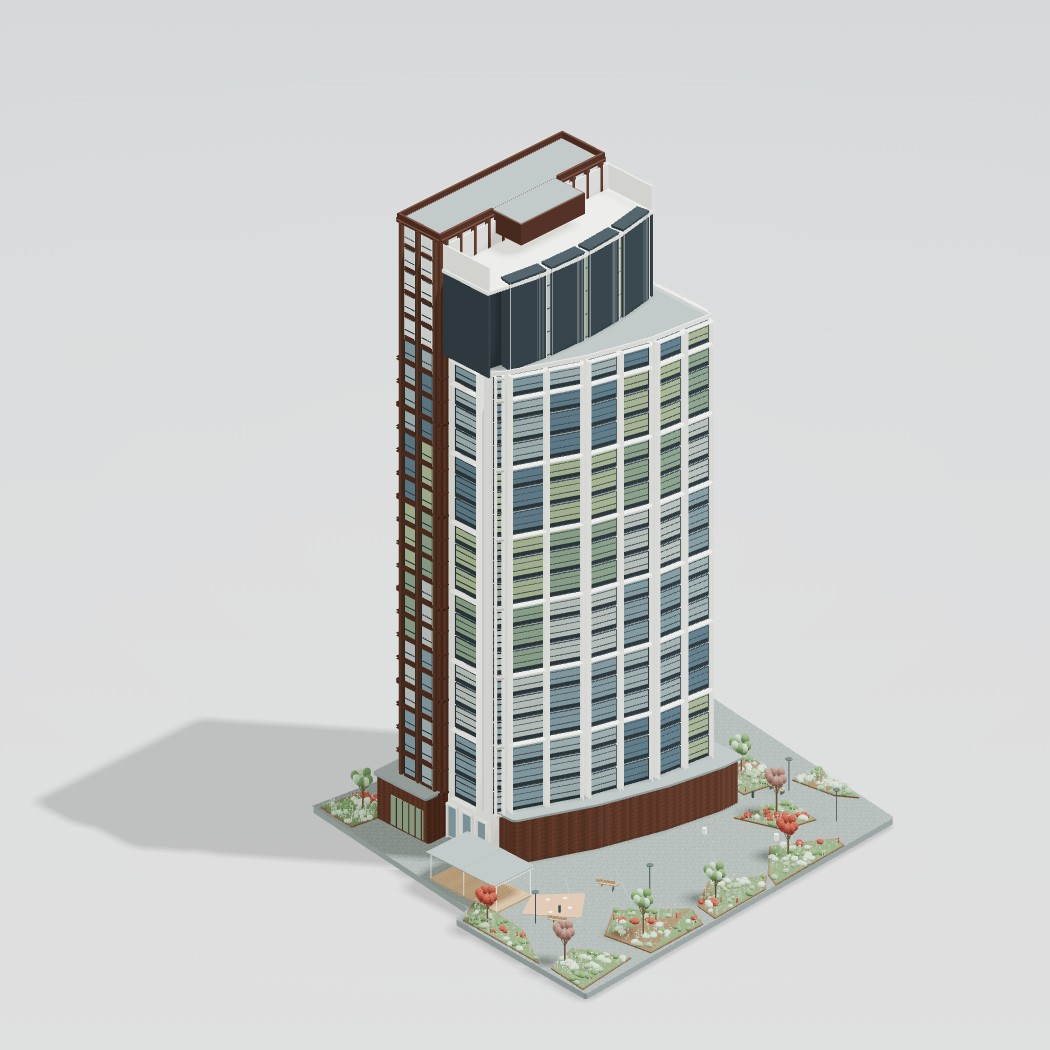
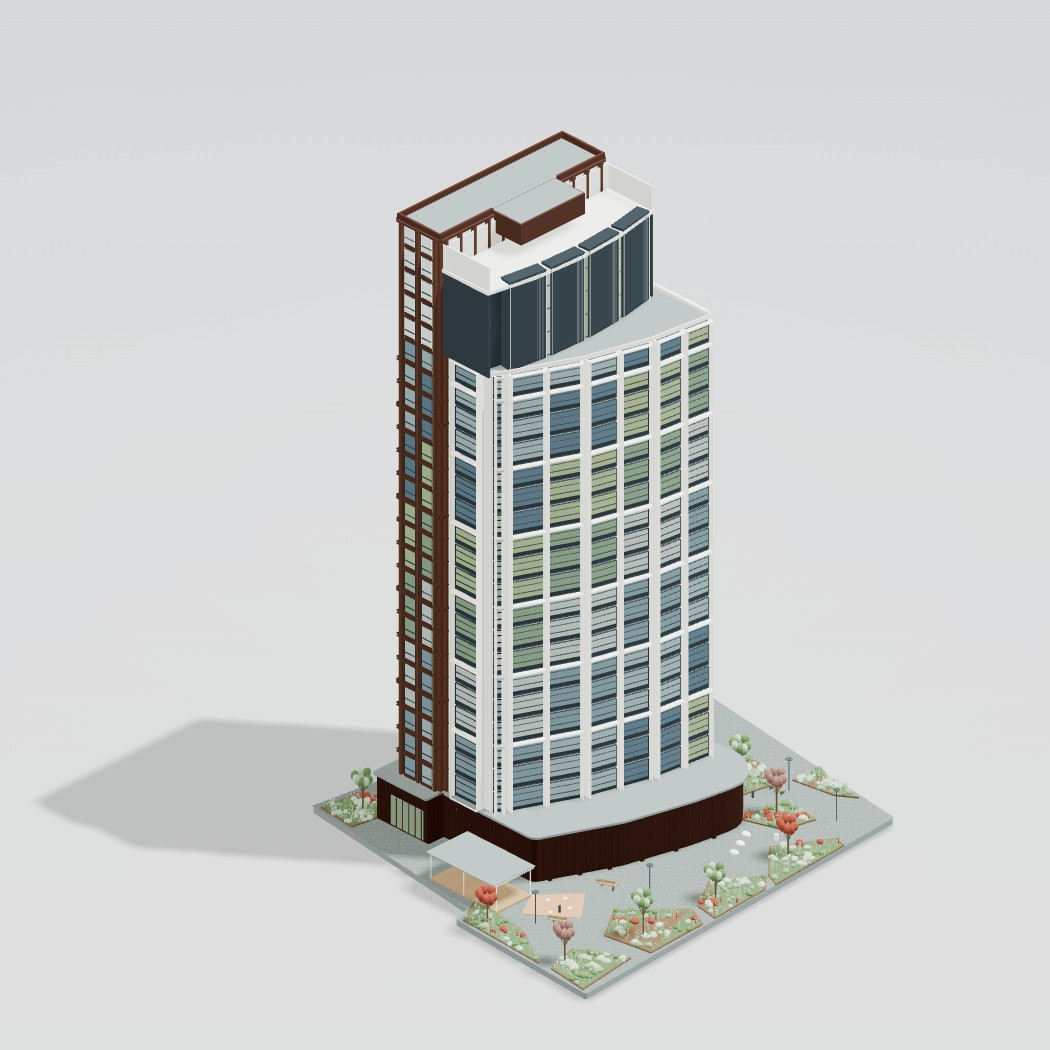
Add projecting brick podium with broad roof, pilasters and rounded return

Changed region(s): [[0.3352, 0.7314, 0.7314, 0.8533]]

diff --git a/assets/photo-tower-project.js b/assets/photo-tower-project.js
@@ -17,18 +17,19 @@
   const glass=[0x99a9aa,0x7f949b,0xb4bdb5,0x879b82,0xa0ae87,0x647b87].map(c=>GranVisual.glass(material(c,{roughness:.32,metalness:.08})));
   const upperGlass=GranVisual.glass(material(0xd9e0da,{roughness:.28,metalness:.09}));
   const playSurface=material(0xbd9478,{roughness:1});
+  const podiumBrick=material(0xa48f80,{map:texture('brick'),roughness:.94});
   const plants=[0x6f895c,0x8ea27f,0xb4c0ad,0xa79461,0x96736a,0xa35142,0xc1b582,0xabc0a3].map(c=>material(c,{roughness:1,flatShading:true}));
   const unit=new T.BoxGeometry(1,1,1),ball=new T.IcosahedronGeometry(1,2),shrub=new T.IcosahedronGeometry(1,1),cylinder=new T.CylinderGeometry(1,1,1,8),cone=new T.ConeGeometry(1,1,6);geo.push(unit,ball,shrub,cylinder,cone);
   function stamp(G,m,x,y,z,sx,sy,sz,ry=0,q=null){let b=batches.get(G.uuid+':'+m.uuid);if(!b)batches.set(G.uuid+':'+m.uuid,b={G,m,list:[]});dummy.position.set(x,y,z);dummy.scale.set(sx,sy,sz);dummy.rotation.set(0,ry,0);if(q)dummy.quaternion.copy(q);dummy.updateMatrix();b.list.push(dummy.matrix.clone());}
   const box=(m,x,y,z,w,h,d,a=0)=>stamp(unit,m,x,y,z,w,h,d,a);
   function branch(a,b,r){const va=new T.Vector3(...a),vb=new T.Vector3(...b),v=vb.clone().sub(va),mid=va.add(vb).multiplyScalar(.5),q=new T.Quaternion().setFromUnitVectors(new T.Vector3(0,1,0),v.clone().normalize());stamp(cylinder,M.trunk,mid.x,mid.y,mid.z,r,v.length(),r,0,q);}
-  function shape(p,round=0){const s=new T.Shape();p.forEach(([x,z],i)=>{const a=p[(i+p.length-1)%p.length],b=p[(i+1)%p.length],pa=new T.Vector2(a[0]-x,a[1]-z).normalize().multiplyScalar(round),pb=new T.Vector2(b[0]-x,b[1]-z).normalize().multiplyScalar(round);i?s.lineTo(x+pa.x,-z-pa.y):s.moveTo(x+pa.x,-z-pa.y);s.quadraticCurveTo(x,-z,x+pb.x,-z-pb.y)});s.closePath();return s;}
+  function shape(p,round=0){const s=new T.Shape();p.forEach(([x,z],i)=>{const a=p[(i+p.length-1)%p.length],b=p[(i+1)%p.length],r=Array.isArray(round)?round[i]:round,pa=new T.Vector2(a[0]-x,a[1]-z).normalize().multiplyScalar(r),pb=new T.Vector2(b[0]-x,b[1]-z).normalize().multiplyScalar(r);i?s.lineTo(x+pa.x,-z-pa.y):s.moveTo(x+pa.x,-z-pa.y);s.quadraticCurveTo(x,-z,x+pb.x,-z-pb.y)});s.closePath();return s;}
   function solid(p,y,h,m,round=0,topSlope=0){const G=new T.ExtrudeGeometry(shape(p,round),{depth:h,bevelEnabled:false,curveSegments:8});G.rotateX(-Math.PI/2);const a=G.attributes.position,uv=G.attributes.uv;
    if(topSlope)for(let i=0;i<a.count;i++)if(a.getY(i)>h-.001)a.setY(i,h-Math.max(0,a.getZ(i))*topSlope);
-   if(m.map)for(let i=0;i<uv.count;i++)uv.setXY(i,a.getX(i)/2.4+a.getZ(i)/2.4,a.getY(i)/1.2);G.computeVertexNormals();geo.push(G);const o=new T.Mesh(G,m);o.position.y=y;o.castShadow=o.receiveShadow=true;vpm.add(o);return o;
+   if(m.map){const k=m===podiumBrick?2:1;for(let i=0;i<uv.count;i++)uv.setXY(i,k*(a.getX(i)+a.getZ(i))/2.4,k*a.getY(i)/1.2);}G.computeVertexNormals();geo.push(G);const o=new T.Mesh(G,m);o.position.y=y;o.castShadow=o.receiveShadow=true;vpm.add(o);return o;
   }
   function polygon(p,y,m){const G=new T.ShapeGeometry(shape(p));G.rotateX(-Math.PI/2);const a=G.attributes.position,uv=G.attributes.uv;for(let i=0;i<uv.count;i++)uv.setXY(i,a.getX(i)/2.4,a.getZ(i)/1.2);geo.push(G);const o=new T.Mesh(G,m);o.position.y=y;o.receiveShadow=true;vpm.add(o);}
-  function brickBox(x,y,z,w,h,d){const G=new T.BoxGeometry(w,h,d),uv=G.attributes.uv;for(let f=0;f<6;f++){const uw=f<2?d:w,vh=f===2||f===3?d:h;for(let k=0;k<4;k++){const i=f*4+k;uv.setXY(i,uv.getX(i)*uw/2.4,uv.getY(i)*vh/1.2)}}geo.push(G);const o=new T.Mesh(G,M.brick);o.position.set(x,y,z);o.castShadow=o.receiveShadow=true;vpm.add(o);}
+  function brickBox(x,y,z,w,h,d,angle=0,mat=M.brick){const G=new T.BoxGeometry(w,h,d),uv=G.attributes.uv,mul=mat===podiumBrick?2:1;for(let f=0;f<6;f++){const uw=f<2?d:w,vh=f===2||f===3?d:h;for(let k=0;k<4;k++){const i=f*4+k;uv.setXY(i,uv.getX(i)*uw*mul/2.4,uv.getY(i)*vh*mul/1.2)}}geo.push(G);const o=new T.Mesh(G,mat);o.position.set(x,y,z);o.rotation.y=angle;o.castShadow=o.receiveShadow=true;vpm.add(o);}
   const site=[[16.14,-19.34],[8.86,32.95],[-33.99,27.57],[-37.67,-27.14],[-14.42,-25.8],[-13.81,-23.08]];
   solid(site,-.8,.8,M.roof,.5);polygon(site,.025,M.pave);
   // Broad diagonal circulation and small play pad traced in the reference view.
@@ -45,8 +46,15 @@
   // Three shallow facets give the white front its slight turn in plan.
   // The brown rear bar stays straight and vertical.
   const brown={x:3.5,z:-.5,w:7,d:27,f:24,y0:6.2},whitePlan=[[-8.5,-11.5],[-7.5,-13],[-.15,-13],[-.15,15],[-16,15],[-15,6.2],[-12.5,-2.6]],FH=3.15,whiteFloors=19,whiteTop=66.05,brownTop=81.8;
-  const podium=[[0,-16],[8.8,-16],[8.8,16],[-18.7,17],[-18.7,14],[-17.3,6.2],[-14.7,-2.6],[-10.5,-12.2],[0,-12.2]];
-  solid(podium,.12,5.95,M.brick,.42);solid(podium.map(([x,z])=>[x*1.025,z*1.025]),6.12,.3,M.roof,.50);
+  // A full projecting low building, with a broad roof terrace and a soft
+  // right-hand return; it must read separately from the tower's brick skirt.
+  const podium=[[0,-16],[8.8,-16],[8.8,16],[-18.7,17],[-22.5,14.3],[-22.8,11.7],[-21.9,5.8],[-19.6,-3.2],[-15,-13.5],[0,-13.5]],podiumRound=[.25,.35,.35,1.2,2.0,1.2,.6,.5,.8,.25];
+  solid(podium,.12,5.95,podiumBrick,podiumRound);
+  solid(podium.map(([x,z])=>[x*1.025,z*1.025]),6.12,.3,M.roof,podiumRound.map(r=>r+.12));
+  const podiumFront=[[-15,-13.5],[-19.6,-3.2],[-21.9,5.8],[-22.8,11.7]];
+  for(let i=0;i<podiumFront.length-1;i++){const a=podiumFront[i],b=podiumFront[i+1],dx=b[0]-a[0],dz=b[1]-a[1],L=Math.hypot(dx,dz),nx=-dz/L,nz=dx/L,angle=-Math.atan2(dz,dx),n=Math.max(1,Math.round(L/4.4));
+   for(let j=0;j<n;j++){const t=(j+.55)/n,x=a[0]+dx*t+nx*.14,z=a[1]+dz*t+nz*.14;brickBox(x,3.06,z,.48,5.88,.44,angle,podiumBrick);}
+  }
   brickBox(brown.x,brown.y0+brown.f*FH/2,brown.z,brown.w,brown.f*FH,brown.d);
   solid(whitePlan,.12,whiteTop-.12,M.white,.18);
   // Exposed wedge-shaped roof and thin parapet follow the actual five-sided plan.
@@ -151,7 +159,7 @@
   const ringG=new T.TorusGeometry(.72,.10,10,36);geo.push(ringG);const smaller=new T.TorusGeometry(.54,.09,10,32);geo.push(smaller);
   stamp(ringG,M.light,px-2.7,2.35,pz+2.65,1,1,1);stamp(smaller,M.light,px+3.1,2.2,pz+2.65,1,1,1);
   for(const x of [px-2.7,px+3.1])box(M.steel,x,3.45,pz+2.65,.025,.8,.025);
-  for(const [x,z] of [[-14,13],[-12,15],[-10,17]])stamp(ball,M.light,x,.4,z,.65,.35,.45);
+  for(const [x,z] of [[-27,8],[-26,10],[-25,12]])stamp(ball,M.light,x,.4,z,.65,.35,.45);
   for(const [x,z] of [[-28,14],[-17,15],[-21,9]])stamp(cylinder,M.light,x,.45,z,.28,.8,.28);
   function bench(x,z,angle=0){for(let j=0;j<5;j++)box(M.wood,x,.65,z+(j-2)*.14,2.4,.08,.12,angle);for(const d of [-.9,.9])box(M.steel,x+d,.35,z,.08,.6,.6,angle);for(let j=0;j<3;j++)box(M.wood,x,1.0+j*.13,z-.36,2.4,.10,.08,angle);}
   bench(-24,-18,.5);bench(-22,-8,.5);bench(-20,22);bench(9,-9);

diff --git a/review/babushkinskaya-refinement/README.md b/review/babushkinskaya-refinement/README.md
@@ -2,7 +2,7 @@
 
 Основа публикации: cda1dd62a7f264b2f23b8900a605ac57239e6ac4. Вторая карточка, ул. Баб****ая; третий проект не заменяется. Кадры и проверки относятся к коммиту, содержащему этот файл; полный SHA указан в PR #28.
 
-По приоритетному виду сверху перестроены тонкая коричневая пластина с длинной узкой кровлей, выступающий центральный технический объём, поднятое белое П-образное обрамление, сплошные тёмные боковые стены верхнего объёма (тот же материал, что соседние тёмные секции) и четыре широкие тёмные секции вдоль коричневого фасада. Между ними — узкие остеклённые щели; перед ними — открытая клиновидная кровля. Белый передний фасад состоит из трёх неглубоких граней, которые дают лёгкий выпуклый разворот в плане. Шесть широких оконных осей и глубокие порталы через три этажа следуют граням. Четыре верхние тёмные секции развёрнуты небольшим веером; коричневый задний корпус остаётся прямым и вертикальным. Кровля и единый кирпичный стилобат повторяют новый контур.
+По приоритетному виду сверху перестроены тонкая коричневая пластина с длинной узкой кровлей, выступающий центральный технический объём, поднятое белое П-образное обрамление, сплошные тёмные боковые стены верхнего объёма (тот же материал, что соседние тёмные секции) и четыре широкие тёмные секции вдоль коричневого фасада. Между ними — узкие остеклённые щели; перед ними — открытая клиновидная кровля. Белый передний фасад состоит из трёх неглубоких граней, которые дают лёгкий выпуклый разворот в плане. Шесть широких оконных осей и глубокие порталы через три этажа следуют граням. Четыре верхние тёмные секции развёрнуты небольшим веером; коричневый задний корпус остаётся прямым и вертикальным. Кровля и единый кирпичный стилобат повторяют новый контур. Нижний кирпичный объём заметно выступает перед башней: добавлены широкая серая кровля с нависающей кромкой, шесть вертикальных кирпичных пилястр и скруглённый правый торец. Масштаб кладки нижней части уменьшен, тон затемнён по крупному фото; белые камни перенесены на свободную площадку перед стеной.
 
 Ландшафт приближен к видимому рисунку на фото: асимметричный участок с боковым уступом, диагональные цветники, широкие проходы и швы мощения. Павильон с подвесными кольцами смещён к боковой площадке, рядом добавлено небольшое покрытие с круглыми элементами. Посадки мельче и плотнее, деревья и мебель расставлены вдоль проходов. Закрывающие стены верхней части остаются тёмными.
 
@@ -13,12 +13,13 @@
 Все изображения получены реальным Three.js-рендерером сайта, без генеративной дорисовки.
 
 - white.jpg, brown.jpg, roof.jpg, detail.jpg, night.jpg — модель в штатной ортографической камере сайта, дополнительные ракурсы и ночь.
+- podium.jpg — близкий ракурс выступающего кирпичного объёма со стороны площадки и навеса.
 - reference-view.jpg — та же модель и материалы с отдельной перспективной камерой, подобранной по видимым точкам исходного снимка, и нейтральным фоном. Это ракурс для сопоставления; штатная камера и фон сайта не менялись. Невидимые в исходнике размеры и ландшафт не являются точной копией.
 - before-white.jpg, before-brown.jpg, before-roof.jpg — опубликованная модель до всей доработки.
 
 ## Проверки и воспроизведение
 
-npm test проходит: геометрия, навигация, калькулятор, проектный просмотрщик, резервный режим при недоступном WebGL и жизненный цикл сцен. Геометрические лучи проверяют толщину коричневого корпуса, четыре верхних секции, поднятое белое обрамление, выступ технического объёма, закрытые торцы верхнего этажа с обеих сторон, свободную клиновидную кровлю и направление фасада и разные нормали его трёх граней. Второй проект: 215 519 треугольников, 63 mesh. Сохранён бюджет менее 300 000 треугольников и 100 mesh. Это счётчики геометрии, не измерение FPS на компьютере пользователя.
+npm test проходит: геометрия, навигация, калькулятор, проектный просмотрщик, резервный режим при недоступном WebGL и жизненный цикл сцен. Геометрические лучи проверяют толщину коричневого корпуса, четыре верхних секции, поднятое белое обрамление, выступ технического объёма, закрытые торцы верхнего этажа с обеих сторон, свободную клиновидную кровлю направление фасада, разные нормали его трёх граней и наличие крыши/стены выступающего нижнего объёма. Второй проект: 215 659 треугольников, 69 mesh. Сохранён бюджет менее 300 000 треугольников и 100 mesh. Это счётчики геометрии, не измерение FPS на компьютере пользователя.
 
 В Chromium сняты дневные и ночной ракурсы; ошибок JavaScript и переполнения при ширине 390 px нет. Playwright и Chromium нужны только для воспроизведения снимков, не для работы сайта. Запустить статический сервер из корня репозитория на порту 8052, затем node review/babushkinskaya-refinement/browser.cjs и node review/babushkinskaya-refinement/reference-view.cjs. Другой адрес задаётся через GRAN_REVIEW_URL. Параметры перспективной камеры — reference-camera.json.
 

diff --git a/AGENTS.md b/AGENTS.md
@@ -77,3 +77,5 @@
 - Закрывающие стены верхнего объёма второго проекта должны быть тёмными, из того же материала, что четыре соседних блока надстройки; белое обрамление сохранять.
 
 - После остановки публикации пользователь попросил пробный вариант второго проекта с лёгким разворотом/выгибом по фото: три неглубокие грани белого фасада, небольшой веер верхних тёмных секций, ландшафт с диагональными дорожками и цветниками. Ранее данное «Публикуй» было остановлено; новый вариант показывать отдельно и не публиковать без нового согласования.
+
+- Нижний объём второго проекта по дополнительному крупному фото: полноценный выступающий кирпичный стилобат с широкой серой кровлей, вертикальными пилястрами и скруглённым правым торцом. Показывать также близкий ракурс со стороны площадки и навеса.
